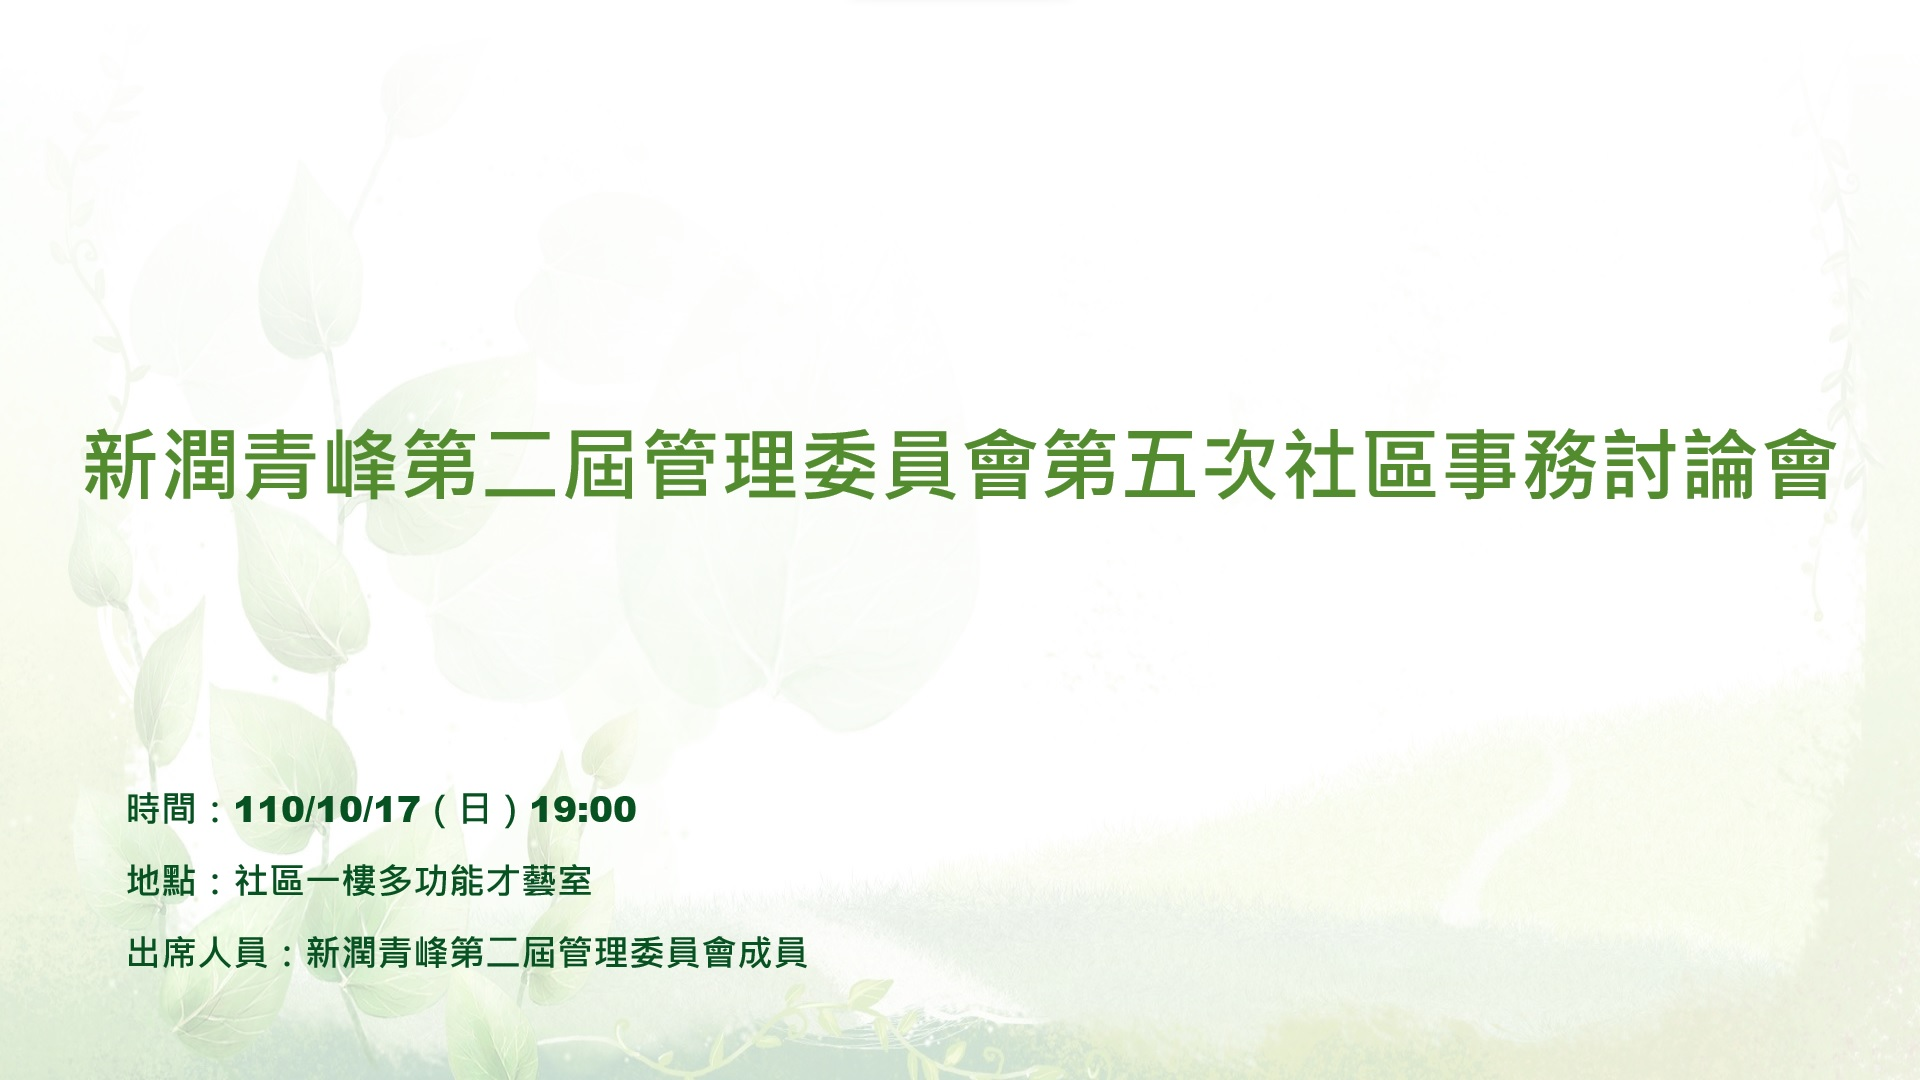
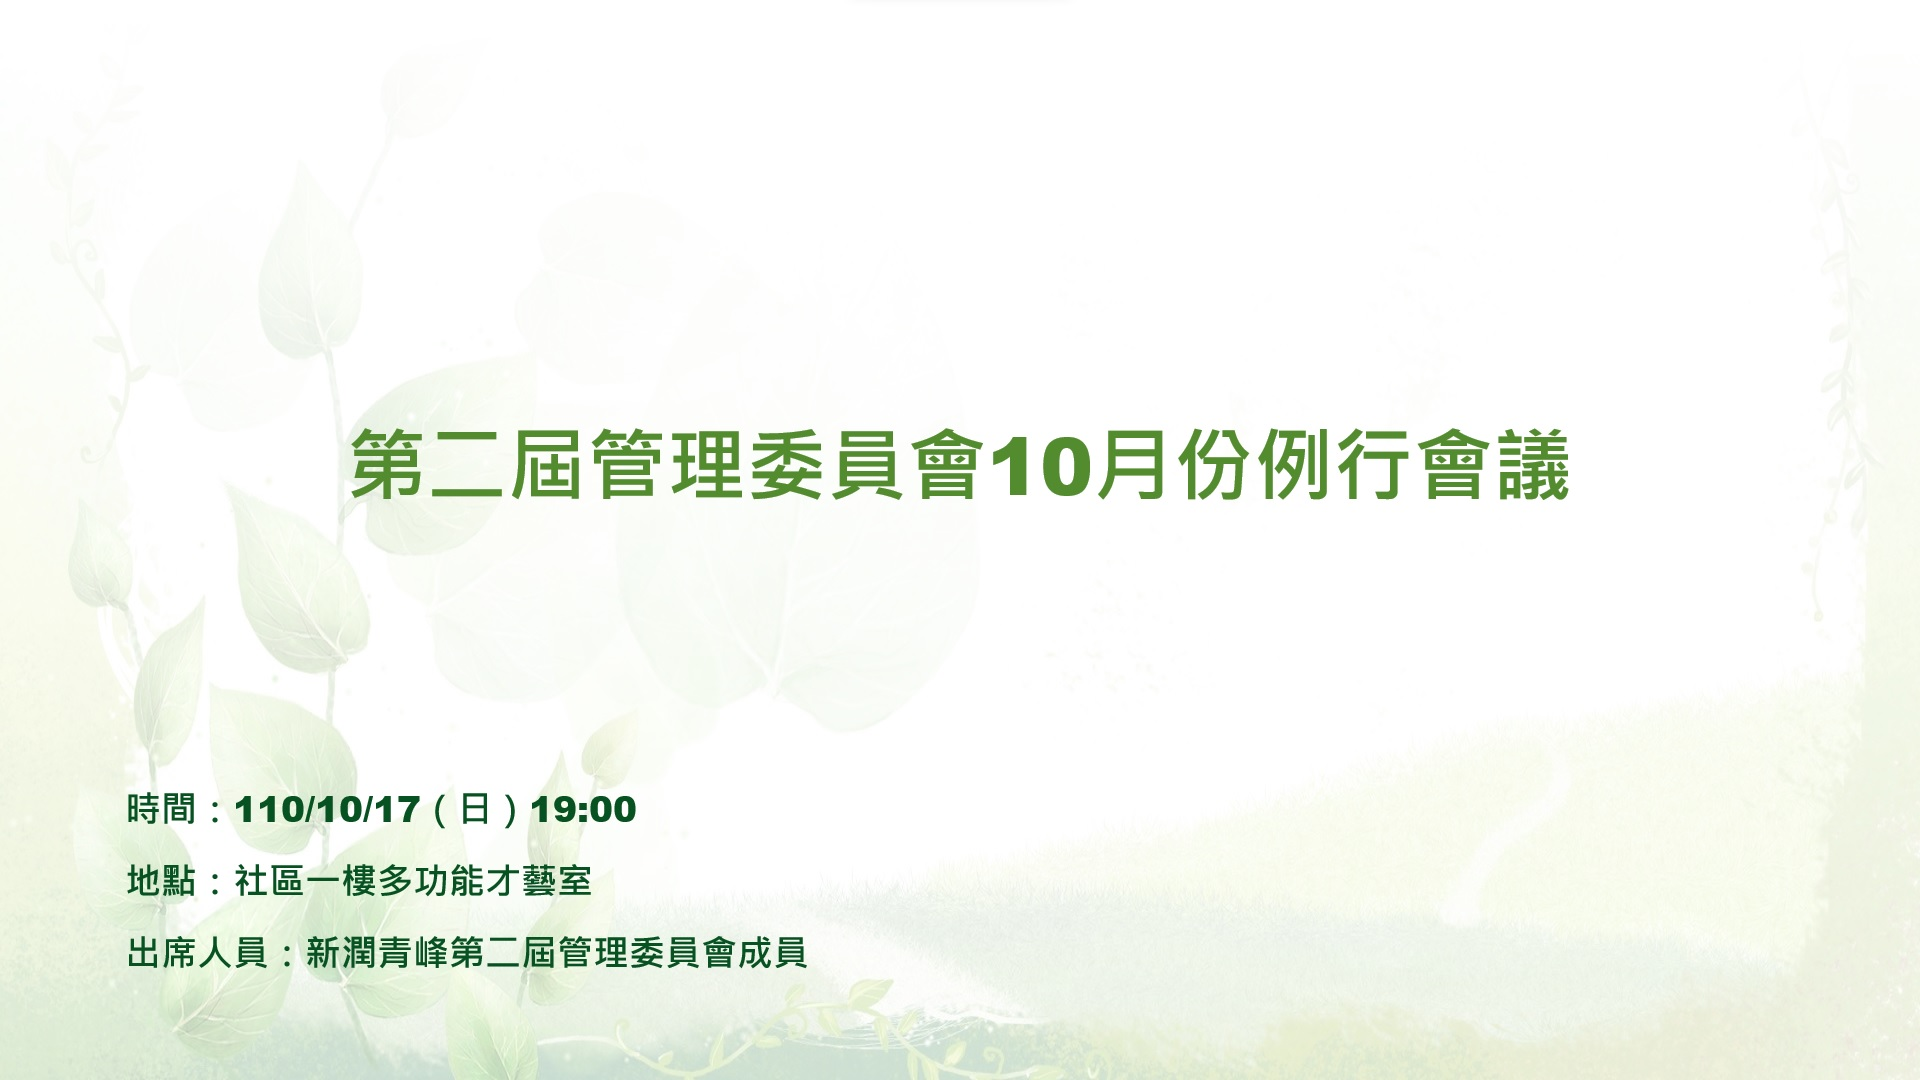
變更會議名稱

Changed region(s): [[0.0312, 0.3972, 0.9688, 0.4583]]

diff --git a/_posts/2021-10-17-meeting.md b/_posts/2021-10-17-meeting.md
@@ -1,6 +1,6 @@
 ---
 layout: post
-title: 第二屆管理委員會第五次社區事務討論會
+title: 第二屆管理委員會10月份例行會議
 subtitle: 110/10/17（日）19:00
 cover-img: /assets/img/content-header.png
 share-img: 
@@ -14,15 +14,16 @@ tags: [會議]
 
 討論主題:
 
-1. 確認前次會議紀錄
-2. 恢復社區點數使用公設機制
-3. 制定社區健身房、多功能才藝室、兒童遊戲室開放時間
-4. 管委會例行會議時間、財報完成時間及管理費繳費期間
-5. 修正新潤青峰停車空間使用管理辦法
-6. 訂定新潤青峰採購作業辦法
-7. 影印2份真禾機電社區驗收報告
-8. 購置管委會開會收音等設備
-9. 依據本社區規約第16條第2款及第3款規定，確認本社區目前公共基金狀況
+1. 總幹事業務報告
+2. 確認第二屆管理委員會第四次社區事務討論會議紀錄
+3. 恢復社區點數使用公設機制
+4. 制定社區健身房、多功能才藝室、兒童遊戲室開放時間
+5. 管委會例行會議時間、財報完成時間及管理費繳費期間
+6. 修正新潤青峰停車空間使用管理辦法
+7. 訂定新潤青峰採購作業辦法
+8. 影印2份真禾機電社區驗收報告
+9. 購置管委會開會收音等設備
+10. 依據本社區規約第16條第2款及第3款規定，確認本社區目前公共基金狀況
 
 相關附件下載:
 
